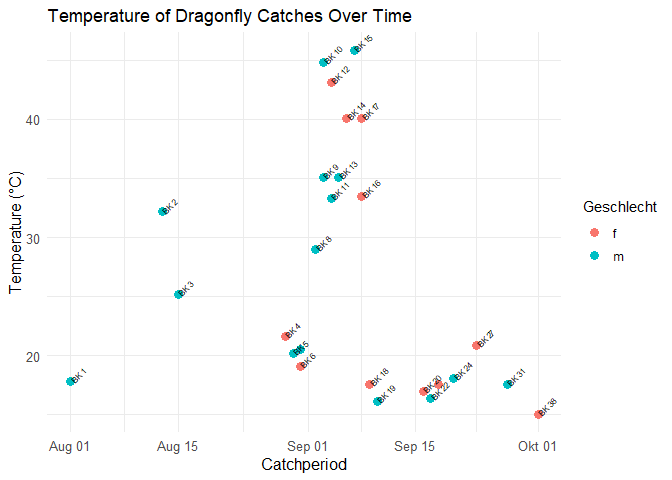
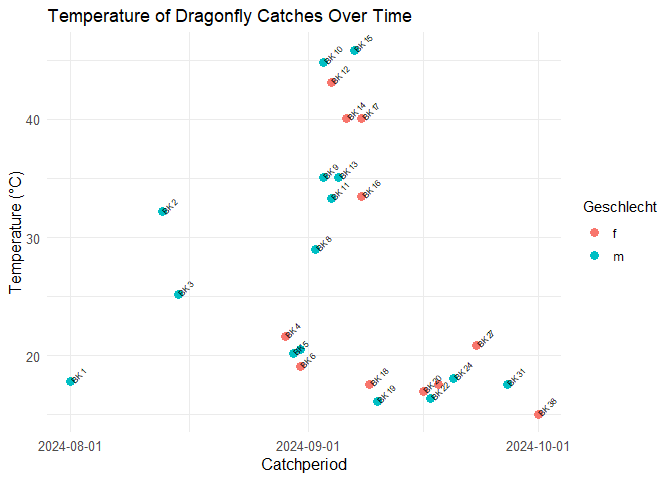
data

diff --git a/Projects/paula0013/Lizzola_Project_Solution.md b/Projects/paula0013/Lizzola_Project_Solution.md
@@ -85,45 +85,95 @@ data
 
     merged_data$Date <- as.Date(merged_data$Date)
 
+    # Create a new variable for the number of individuals caught that I use as the right y-axis
     scaling_factor <- max(merged_data$Anzahl, na.rm = TRUE) / max(merged_data$`Mean Temperature in Celsius`, na.rm = TRUE)
 
-    # 3. Neue Variable mit skalierter Temperatur
+    # New variable with scaled temperature for right y-axis
     merged_data <- merged_data %>%
       mutate(Temp_scaled = `Mean Temperature in Celsius` * scaling_factor)
 
-    # 4. Plot mit zwei Y-Achsen (überlagert)
+    # Wind direction in degrees to compass direction
+    compass <- function(deg) {
+      dirs <- c("N", "NE", "E", "SE", "S", "SW", "W", "NW", "N")
+      idx <- round(deg / 45) + 1
+      return(dirs[idx])
+    }
+
+    #compass direction in merged_data
+    merged_data <- merged_data %>%
+      mutate(
+        WindDirection_compass = compass(`Mean Wind Direction in degrees`),
+        WindDir_rad = (`Mean Wind Direction in degrees` - 90) * pi / 180
+      )
+
+    # Create a sequence of dates for the x-axis
+    sequence_dates <- merged_data %>%
+      distinct(Date) %>%
+      arrange(Date) %>%
+      pull(Date) %>%
+      { seq(min(.), max(.), length.out = 8) %>%
+          as.Date(round(.), origin = "1970-01-01") }
+
+
+    wind_arrows <- merged_data %>%
+      filter(Date %in% sequence_dates,
+             period %in% c("Morning", "Afternoon")) %>%
+      group_by(Date) %>%
+      summarise(
+        WindDir_rad = first(WindDir_rad),
+        WindSpeed = round(first(`Mean Wind Speed in m/s`), 1),
+        WindDirection_compass = first(WindDirection_compass),
+        .groups = "drop"
+      ) %>%
+      mutate(
+        arrow_len = 1,
+        y_base = -1.5,
+        xend = Date + arrow_len * cos(WindDir_rad),
+        yend = y_base + arrow_len * sin(WindDir_rad)
+      )
+
+    # plot with two y axis
     ggplot(merged_data %>%
              arrange(Date) %>%
              filter(Date >= as.Date("2024-08-01") & Date <= as.Date("2024-11-01"),
                     period %in% c("Morning", "Afternoon")), 
            aes(x = Date)) +
       
-      # Balken für Anzahl, gefärbt nach Geschlecht
       geom_col(aes(y = Anzahl, fill = Geschlecht), position = "stack") +
       
       scale_fill_manual(values = c("f" = "orange", "m" = "lightgreen")) +
       
-      # Temperaturkurve mit skalierter Temperatur
       #geom_line(aes(y = Temp_scaled, color = period), size = 1) +
       geom_smooth(aes(y = Temp_scaled, color = period), se = TRUE) +
 
-      # Y-Achsen: links = Anzahl, rechts = Temperatur (rücktransformiert)
       scale_y_continuous(
         name = "Number of Individuals",
+        breaks = c(0, 2, 4),
         sec.axis = sec_axis(~ . / scaling_factor, name = "Temperature")
       ) +
 
       labs(x = "Catchperiod") +
-      scale_x_date(breaks = as.Date(c("2024-08-01", "2024-09-01", "2024-10-01", "2024-11-01"))) +
-      theme_minimal() +
+      scale_x_date(breaks = sequence_dates) +
+      theme_classic() +
       theme(
         axis.title.x = element_text(size = 12),
         axis.title.y = element_text(size = 12),
         axis.title.y.right = element_text(size = 12),
-        axis.text.x = element_text(size = 10),
+        axis.text.x = element_text(size = 8),
         axis.text.y = element_text(size = 10),
         axis.text.y.right = element_text(size = 10)
-      )
+      ) +
+      geom_segment(data = wind_arrows,
+                   aes(x = Date, y = y_base, xend = xend, yend = yend),
+                   arrow = arrow(length = unit(0.4, "cm")), color = "black") +
+
+      geom_text(data = wind_arrows,
+                aes(x = Date, y = y_base - 1, label = WindDirection_compass),
+                size = 3, color = "black") +
+
+      geom_text(data = wind_arrows,
+                aes(x = Date, y = y_base - 2, label = paste0(WindSpeed, " m/s")),
+                size = 3.5, color = "black")
 
 ![](Lizzola_Project_Solution_files/figure-markdown_strict/visualization-1.png)
 
@@ -136,6 +186,7 @@ data
            x = "Catchperiod",
            y = "Temperature (°C)") +
       theme_minimal() +
+      scale_x_date(breaks = as.Date(c("2024-08-01", "2024-09-01", "2024-10-01"))) +
       theme(
         axis.title = element_text(size = 12),
         axis.text = element_text(size = 10)
